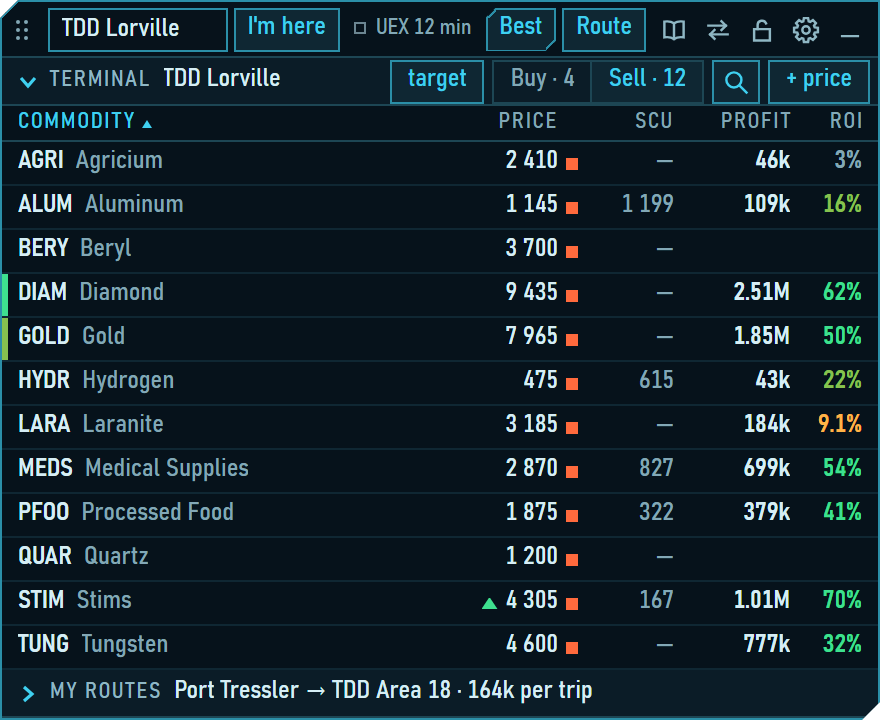
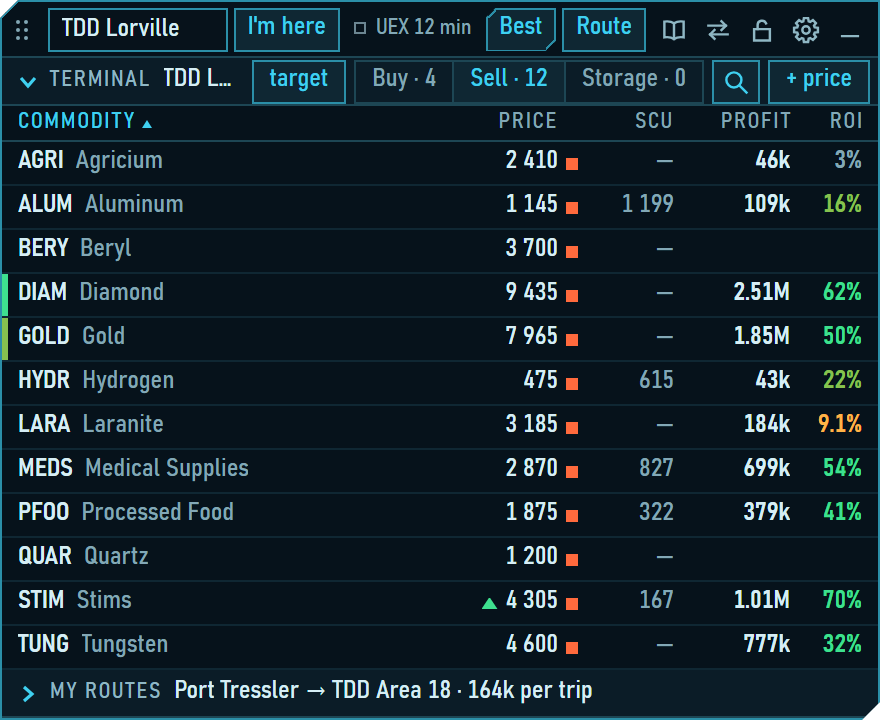
feat(site): version 1.4 on the site — the storage among the features, two pictures of it in the gallery, every picture taken again (the third tab of the terminal); the plan: 2.0 the fleet, 2.x the prices at one key press

Changed region(s): [[0.2455, 0.0611, 0.7977, 0.1528]]

diff --git a/tests/site/shots.test.ts b/tests/site/shots.test.ts
@@ -127,7 +127,7 @@ describe('the pictures on the page', () => {
     const shown = (text: string) => [...text.matchAll(/assets\/shots\/([a-z-]+)\.png/g)].map((match) => match[1]);
     expect(shown(part('top'))).toEqual(['hero-strip', 'hero-window']);
     expect(shown(part('features'))).toEqual(['terminal-options', 'mini-run', 'my-routes']);
-    expect([...new Set(shown(part('gallery')))]).toEqual(['price-entry', 'sell-or-fly', 'history', 'settings']);
+    expect([...new Set(shown(part('gallery')))]).toEqual(['price-entry', 'storage-buy', 'storage', 'sell-or-fly', 'history', 'settings']);
   });
 
   it('links to the gallery from the header of every page', () => {
@@ -140,7 +140,7 @@ describe('the pictures on the page', () => {
     const html = site.read('index.html');
     const gallery = /<section[^>]*\sid="gallery"[\s\S]*?<\/section>/.exec(html)?.[0] ?? '';
     const links = [...gallery.matchAll(/<a class="stage__screen" href="([^"]+)" data-full data-width="(\d+)" data-height="(\d+)"/g)];
-    expect(links).toHaveLength(4);
+    expect(links).toHaveLength(6);
     for (const link of links) expect(link[1]).toMatch(/^assets\/shots\/[a-z-]+\.png\?v=[0-9a-f]+$/);
     expect(gallery).toMatch(/<dialog class="lightbox" data-lightbox/);
     for (const control of ['data-lightbox-close', 'data-lightbox-prev', 'data-lightbox-next']) expect(gallery).toMatch(new RegExp(`<button[^>]*${control}[^>]*aria-label="[^"]+"`));

diff --git a/src/preview/scenes-storage.ts b/src/preview/scenes-storage.ts
@@ -42,7 +42,7 @@ async function overTheHold(app: SceneApp, intoHold = 696): Promise<void> {
 export const STORAGE_SCENES: readonly Scene[] = [
   {
     name: 'storage-buy-split',
-    title: 'Склад: «Купил» 1000 при трюме 696 — строка «В трюм 696 · на склад HUR-L1: 304 SCU»',
+    title: 'Склад: «Купил» 900 при трюме 696 — строка «В трюм 696 · на склад HUR-L1: 204 SCU»',
     dataset: 'default',
     act: async (app) => {
       await app.expand('preview');
@@ -50,7 +50,7 @@ export const STORAGE_SCENES: readonly Scene[] = [
       await pause(200);
       await press('[data-tour-row="STIM"]');
       await press('[data-tour-open="STIM"] [data-tour="trade"]');
-      type('form.trade .in-scu', '1000');
+      type('form.trade .in-scu', '900');
       await pause(200);
       if (document.querySelector('form.trade .split') === null) throw new Error('the form shows no line of the storage for a purchase over the hold');
     },
